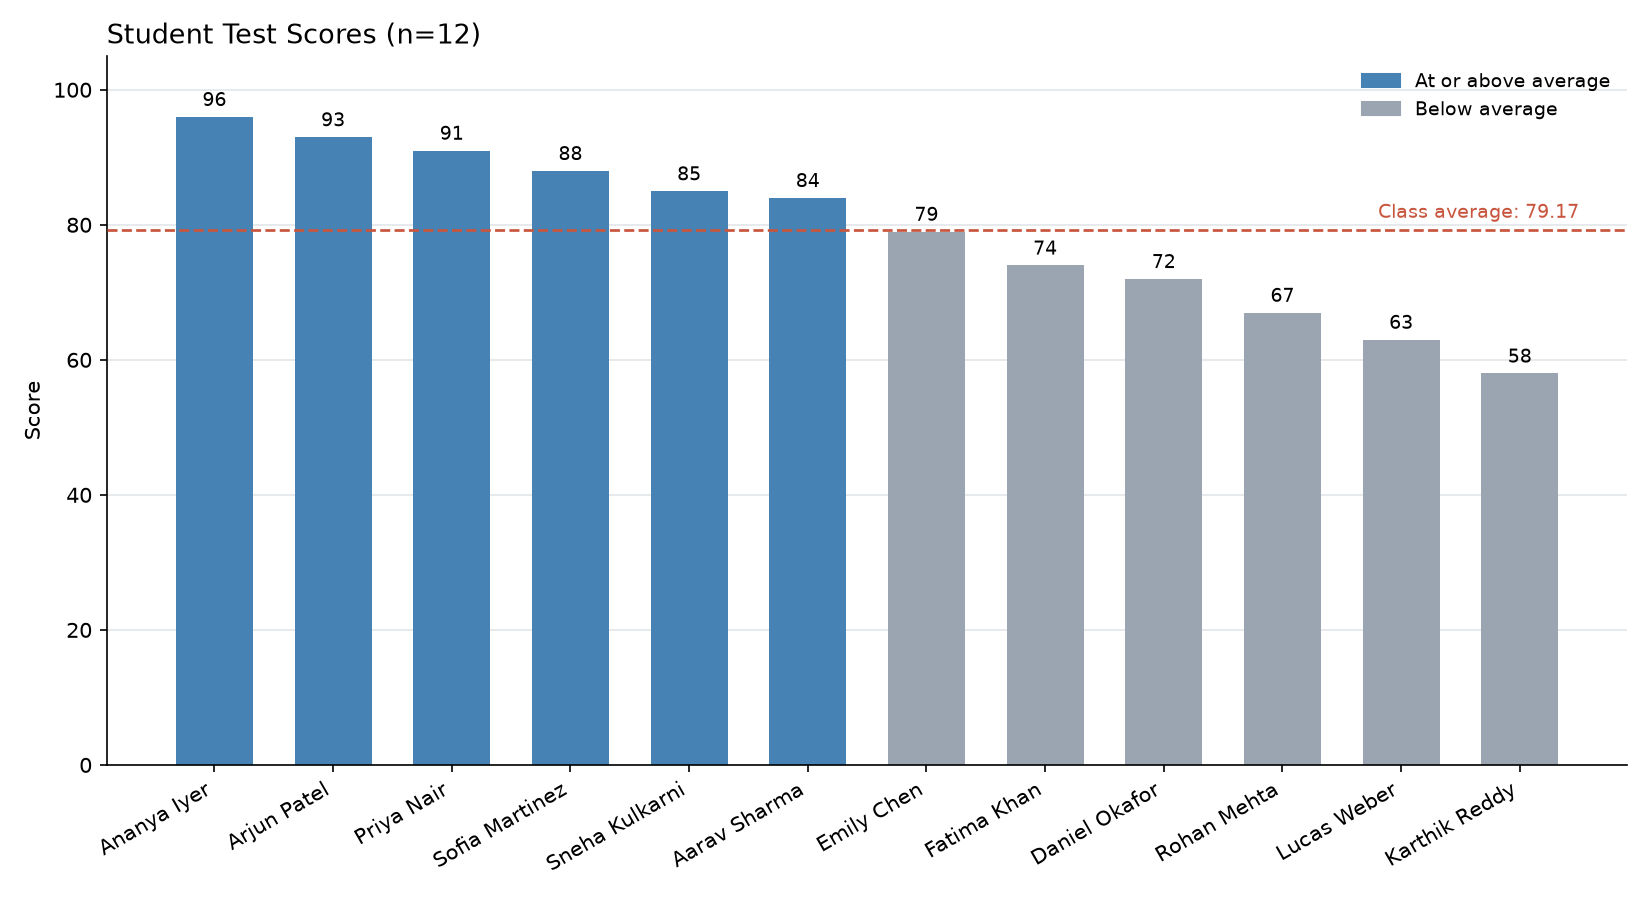
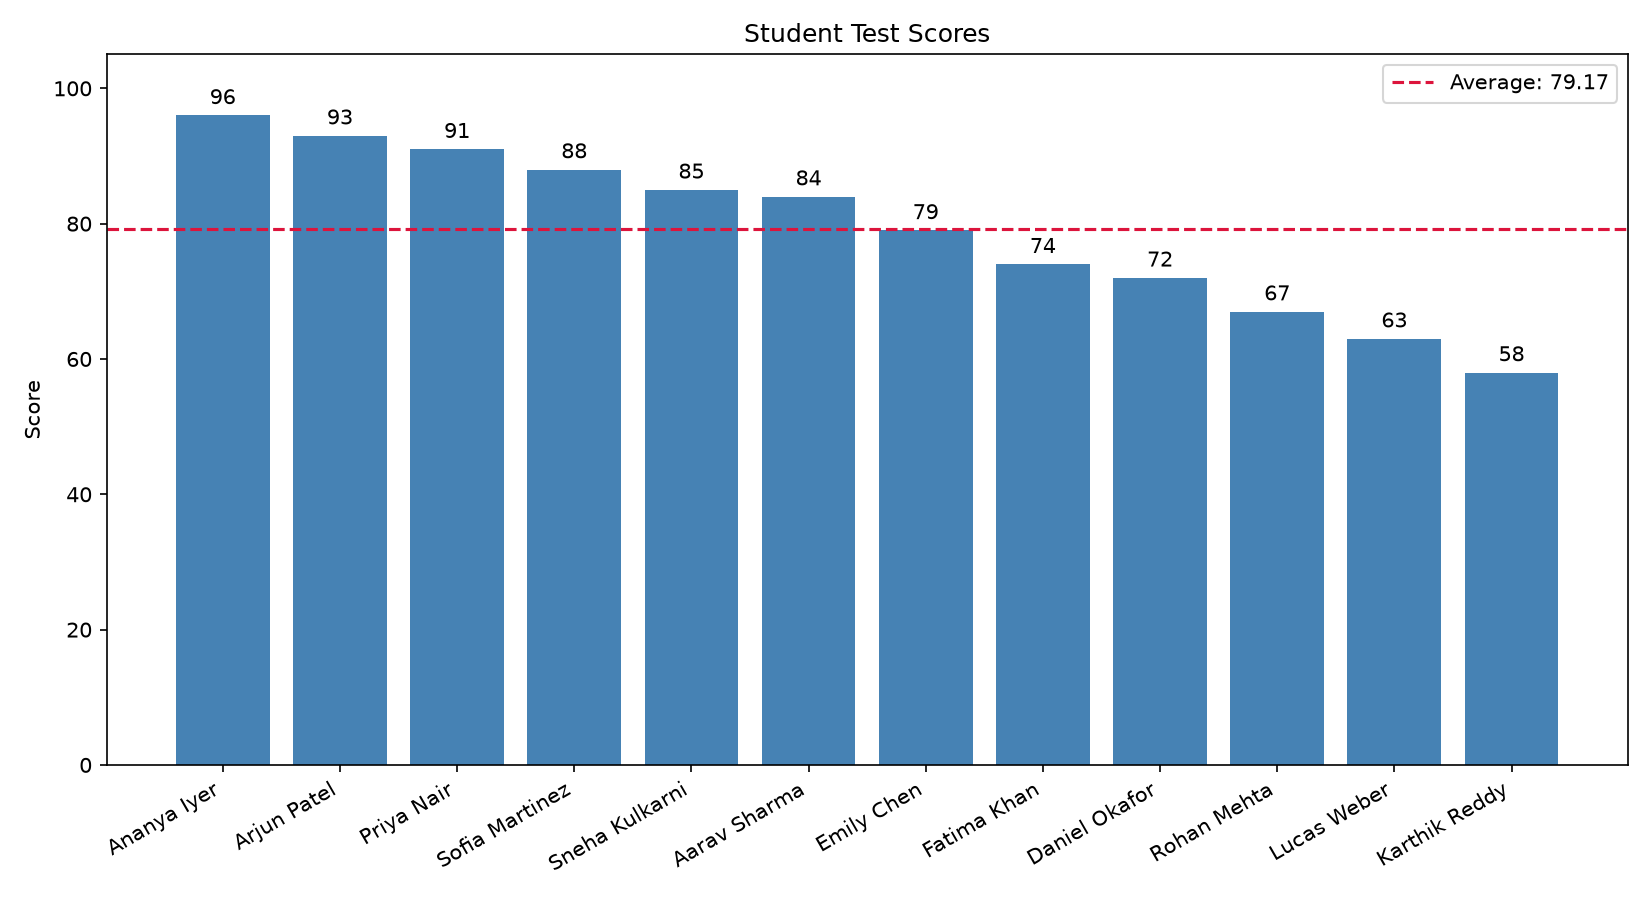
Clean up scores API and chart script

diff --git a/problem2_student_scores/scores_chart.py b/problem2_student_scores/scores_chart.py
@@ -1,111 +1,62 @@
 import sys
 from pathlib import Path
 
-import matplotlib
-
-matplotlib.use("Agg")
-
 import matplotlib.pyplot as plt
 import requests
-from matplotlib.patches import Patch
 
 API_URL = "http://127.0.0.1:8000/api/scores"
 CHART_PATH = Path(__file__).resolve().parent / "student_scores_chart.png"
 
-ABOVE_COLOR = "#4682B4"
-BELOW_COLOR = "#9AA5B1"
-AVERAGE_COLOR = "#C8553D"
+
+def get_scores():
+    try:
+        response = requests.get(API_URL, timeout=5)
+        response.raise_for_status()
+        data = response.json()
+    except requests.ConnectionError:
+        sys.exit(f"Could not connect to {API_URL}. Is mock_scores_api.py running?")
+    except requests.RequestException as exc:
+        sys.exit(f"Request failed: {exc}")
+    return [s for s in data if s.get("name") and isinstance(s.get("score"), (int, float))]
 
 
-def fetch_records() -> list:
-    response = requests.get(API_URL, timeout=5)
-    response.raise_for_status()
-    data = response.json()
-    return data if isinstance(data, list) else []
-
-
-def clean_records(records: list) -> list[tuple[str, str, float]]:
-    students = []
-    for item in records:
-        if not isinstance(item, dict):
-            continue
-        name, subject, score = item.get("name"), item.get("subject"), item.get("score")
-        if not isinstance(name, str) or not name.strip():
-            continue
-        if isinstance(score, bool) or not isinstance(score, (int, float)) or not 0 <= score <= 100:
-            continue
-        subject = subject.strip() if isinstance(subject, str) and subject.strip() else "-"
-        students.append((name.strip(), subject, float(score)))
-    return students
-
-
-def print_summary(students: list[tuple[str, str, float]], average: float) -> None:
-    print(f"{'Name':<18}  {'Subject':<18}  {'Score':>5}")
-    print(f"{'-' * 18}  {'-' * 18}  {'-' * 5}")
-    for name, subject, score in students:
-        print(f"{name[:18]:<18}  {subject[:18]:<18}  {score:>5g}")
-
-    top = max(students, key=lambda s: s[2])
-    bottom = min(students, key=lambda s: s[2])
-    print()
-    print(f"students: {len(students)}")
-    print(f"average:  {average:.2f}")
-    print(f"highest:  {top[2]:g} ({top[0]})")
-    print(f"lowest:   {bottom[2]:g} ({bottom[0]})")
-
-
-def plot_scores(students: list[tuple[str, str, float]], average: float, path: Path) -> None:
-    ranked = sorted(students, key=lambda s: s[2], reverse=True)
-    names = [s[0] for s in ranked]
-    scores = [s[2] for s in ranked]
-    colors = [ABOVE_COLOR if score >= average else BELOW_COLOR for score in scores]
-    positions = range(len(ranked))
+def save_chart(students, average):
+    students = sorted(students, key=lambda s: s["score"], reverse=True)
+    names = [s["name"] for s in students]
+    scores = [s["score"] for s in students]
 
     fig, ax = plt.subplots(figsize=(11, 6))
-    bars = ax.bar(positions, scores, color=colors, width=0.65, zorder=2)
-    ax.bar_label(bars, labels=[f"{score:g}" for score in scores], padding=3, fontsize=9)
-
-    ax.axhline(average, color=AVERAGE_COLOR, linestyle="--", linewidth=1.3, zorder=3)
-    ax.text(len(ranked) - 0.5, average + 1.2, f"Class average: {average:.2f}",
-            ha="right", va="bottom", fontsize=9, color=AVERAGE_COLOR)
-
-    ax.set_xticks(positions, names, rotation=30, ha="right")
-    ax.set_ylim(0, 105)
+    bars = ax.bar(names, scores, color="steelblue")
+    ax.bar_label(bars, padding=3)
+    ax.axhline(average, color="crimson", linestyle="--", label=f"Average: {average:.2f}")
+    ax.set_title("Student Test Scores")
     ax.set_ylabel("Score")
-    ax.set_title(f"Student Test Scores (n={len(ranked)})", loc="left", fontsize=13)
-    ax.spines[["top", "right"]].set_visible(False)
-    ax.yaxis.grid(True, color="#E3E6EA", linewidth=0.8)
-    ax.set_axisbelow(True)
-    ax.legend(
-        handles=[Patch(color=ABOVE_COLOR, label="At or above average"), Patch(color=BELOW_COLOR, label="Below average")],
-        loc="upper right",
-        frameon=False,
-        fontsize=9,
-    )
-
+    ax.set_ylim(0, 105)
+    ax.legend(loc="upper right")
+    plt.xticks(rotation=30, ha="right")
     fig.tight_layout()
-    fig.savefig(path, dpi=150)
+    fig.savefig(CHART_PATH, dpi=150)
     plt.close(fig)
 
 
 def main():
-    try:
-        records = fetch_records()
-    except requests.ConnectionError:
-        sys.exit(f"Could not connect to {API_URL}. Start mock_scores_api.py first.")
-    except requests.RequestException as exc:
-        sys.exit(f"Request to {API_URL} failed: {exc}")
-
-    students = clean_records(records)
-    if len(students) < len(records):
-        print(f"skipped {len(records) - len(students)} malformed record(s)")
+    students = get_scores()
     if not students:
-        sys.exit("No valid scores in the API response.")
+        sys.exit("The API returned no scores.")
 
-    average = sum(s[2] for s in students) / len(students)
-    print_summary(students, average)
-    plot_scores(students, average, CHART_PATH)
-    print(f"\nchart saved to {CHART_PATH}")
+    scores = [s["score"] for s in students]
+    average = sum(scores) / len(scores)
+    top = max(students, key=lambda s: s["score"])
+    bottom = min(students, key=lambda s: s["score"])
+
+    for s in students:
+        print(f"{s['name']:<18}{s.get('subject', '-'):<20}{s['score']}")
+    print(f"\nAverage: {average:.2f}")
+    print(f"Highest: {top['score']} ({top['name']})")
+    print(f"Lowest:  {bottom['score']} ({bottom['name']})")
+
+    save_chart(students, average)
+    print(f"\nChart saved to {CHART_PATH}")
 
 
 if __name__ == "__main__":

diff --git a/problem2_student_scores/mock_scores_api.py b/problem2_student_scores/mock_scores_api.py
@@ -1,7 +1,7 @@
 import uvicorn
 from fastapi import FastAPI
 
-app = FastAPI(title="Mock Student Scores API")
+app = FastAPI()
 
 STUDENTS = [
     {"id": 1, "name": "Aarav Sharma", "subject": "Mathematics", "score": 84},
@@ -19,16 +19,11 @@ STUDENTS = [
 ]
 
 
-@app.get("/health")
-def health() -> dict[str, str]:
-    return {"status": "ok"}
-
-
 @app.get("/api/scores")
-def get_scores(subject: str | None = None) -> list[dict]:
-    if subject is None:
-        return STUDENTS
-    return [s for s in STUDENTS if s["subject"].casefold() == subject.strip().casefold()]
+def get_scores(subject: str | None = None):
+    if subject:
+        return [s for s in STUDENTS if s["subject"].lower() == subject.lower()]
+    return STUDENTS
 
 
 if __name__ == "__main__":
